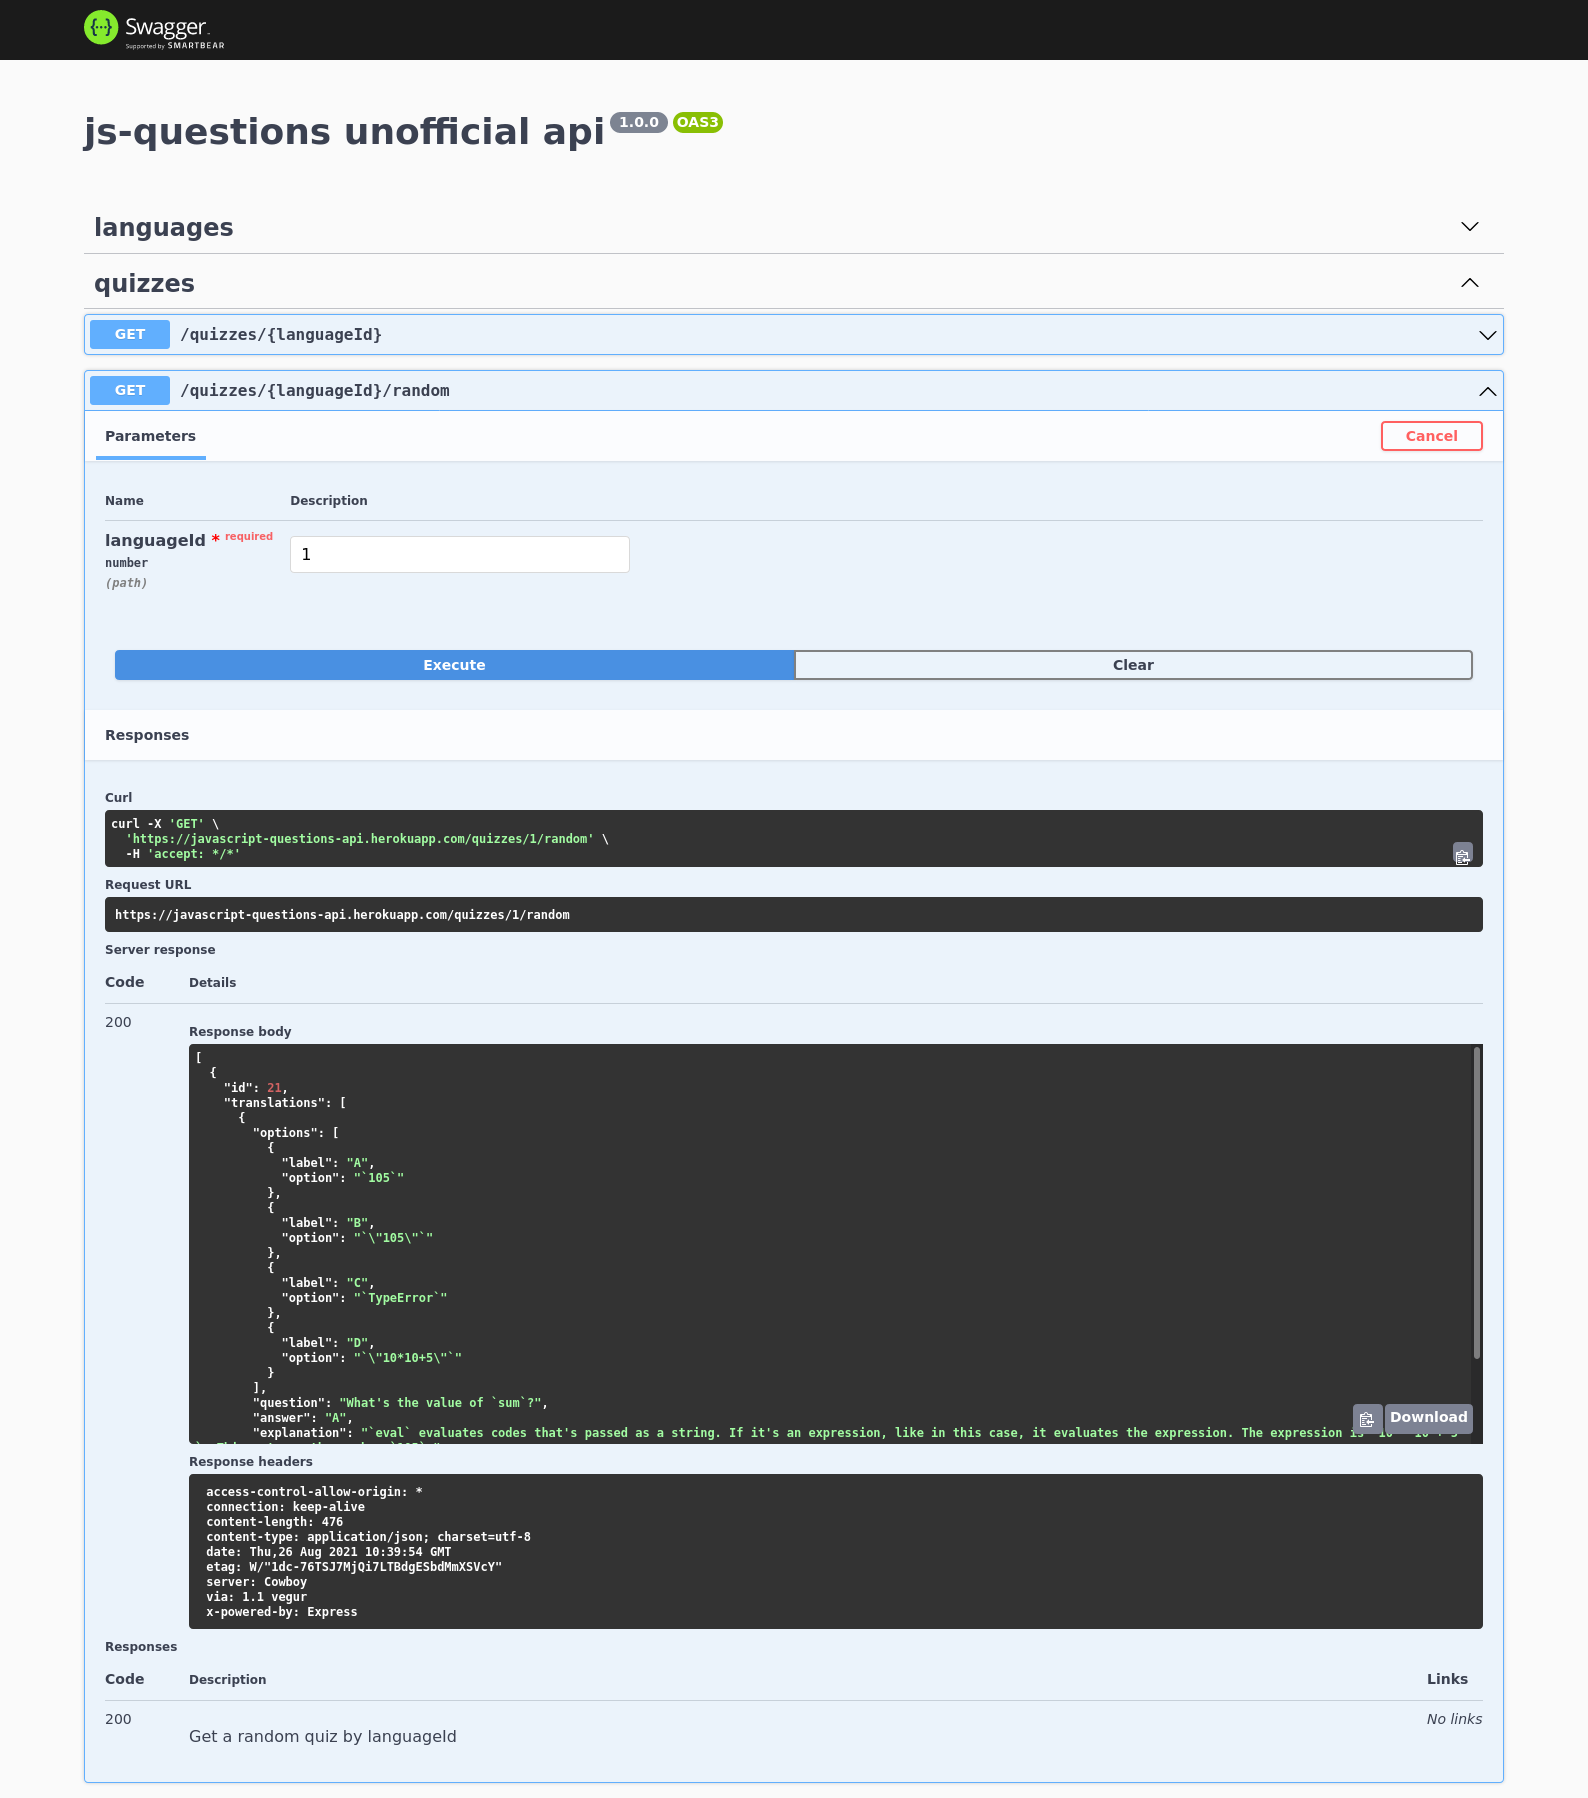
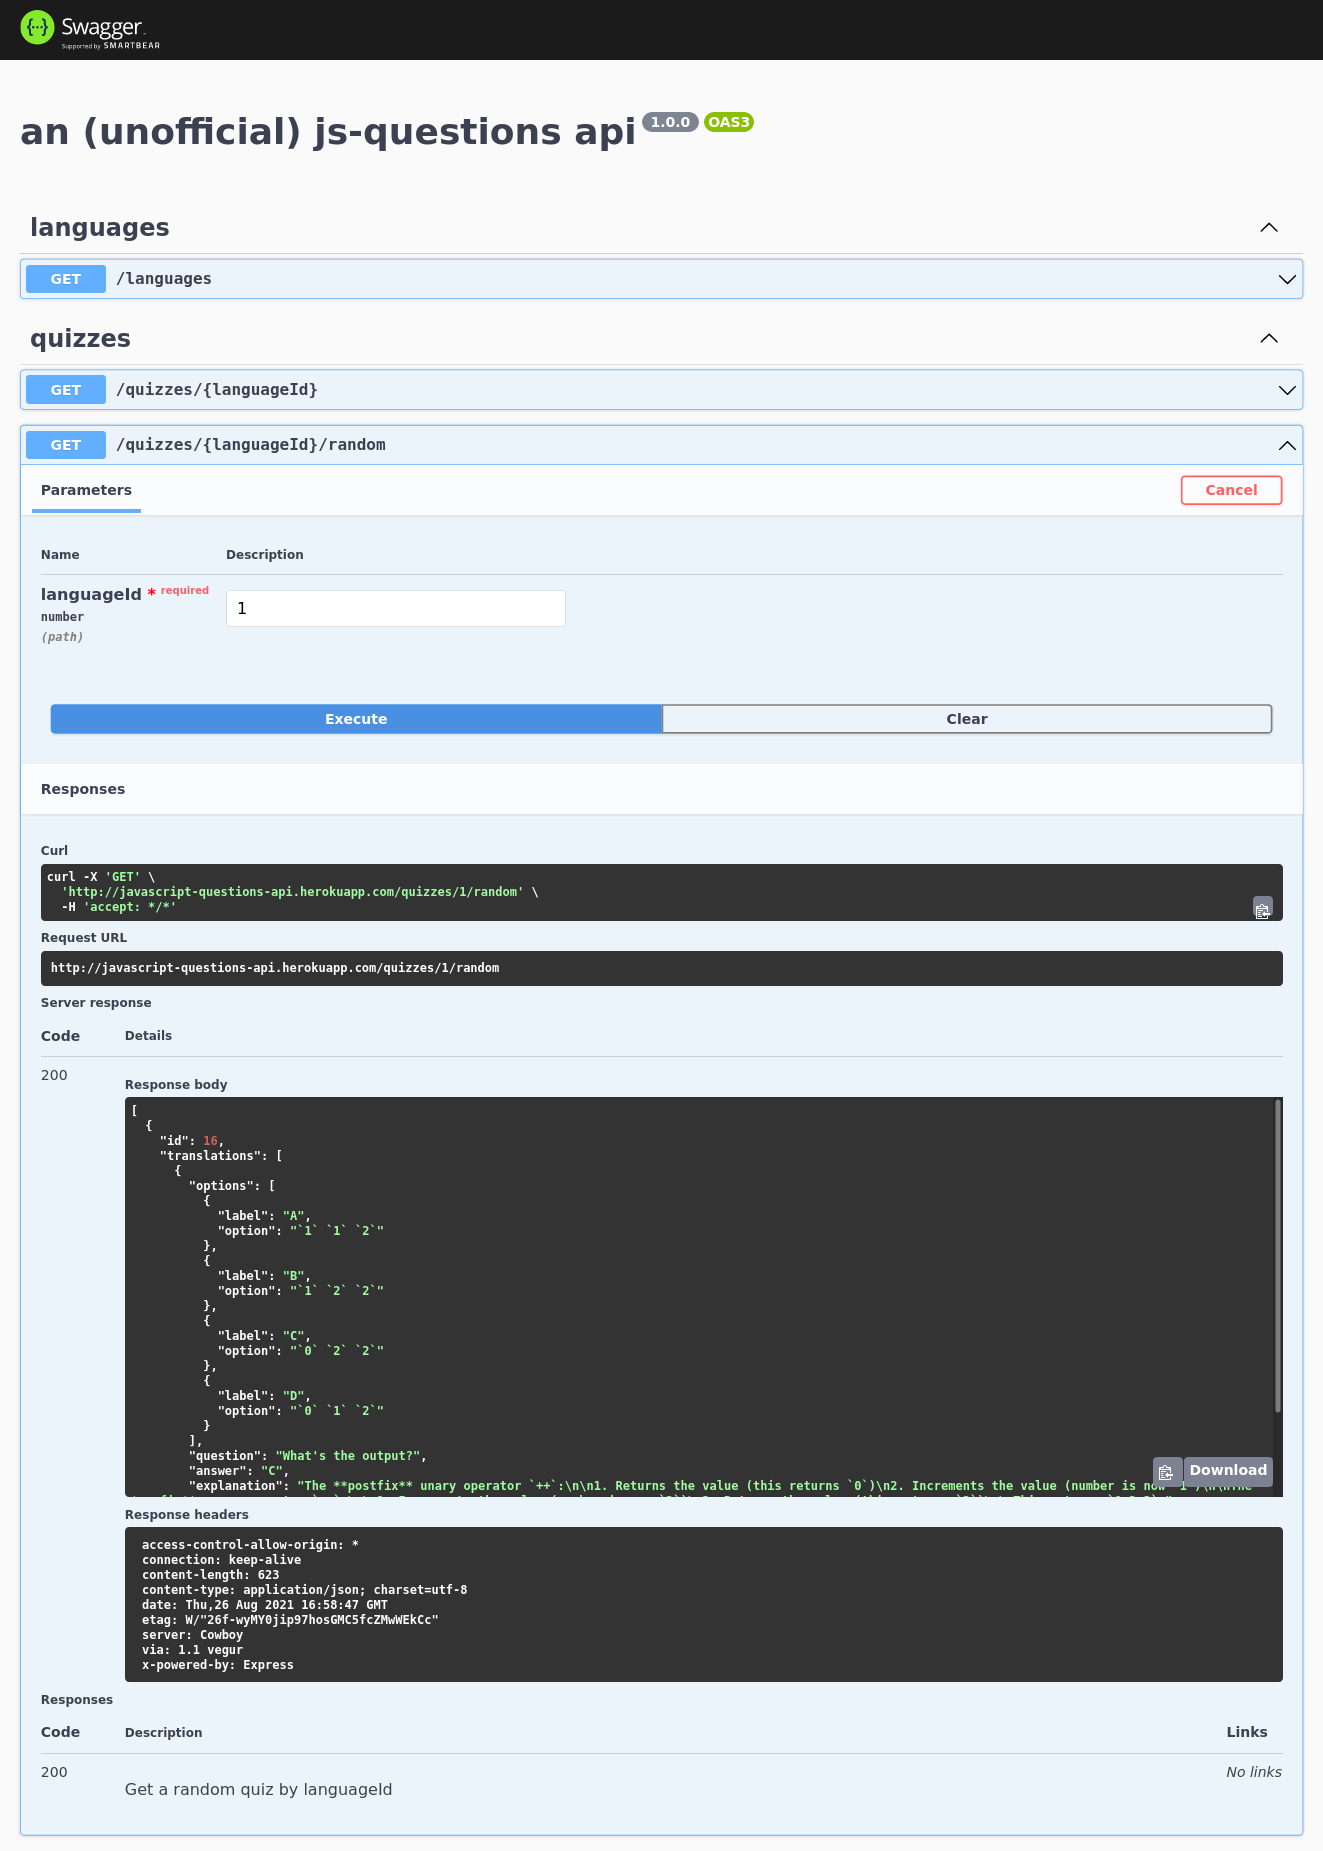
docs(chore): fix grammar errors

diff --git a/src/main.ts b/src/main.ts
@@ -6,7 +6,7 @@ import { DocumentBuilder, SwaggerModule } from '@nestjs/swagger';
 async function bootstrap() {
   const app = await NestFactory.create(AppModule);
 
-  const config = new DocumentBuilder().setTitle('js-questions unofficial api').build();
+  const config = new DocumentBuilder().setTitle('an (unofficial) js-questions api').build();
   const document = SwaggerModule.createDocument(app, config);
   SwaggerModule.setup('docs', app, document);
 

diff --git a/README.md b/README.md
@@ -1,4 +1,4 @@
-# JavaScript Questions Unofficial API
+# An unofficial `javaScript-questions` API
 
 ## Description
 
